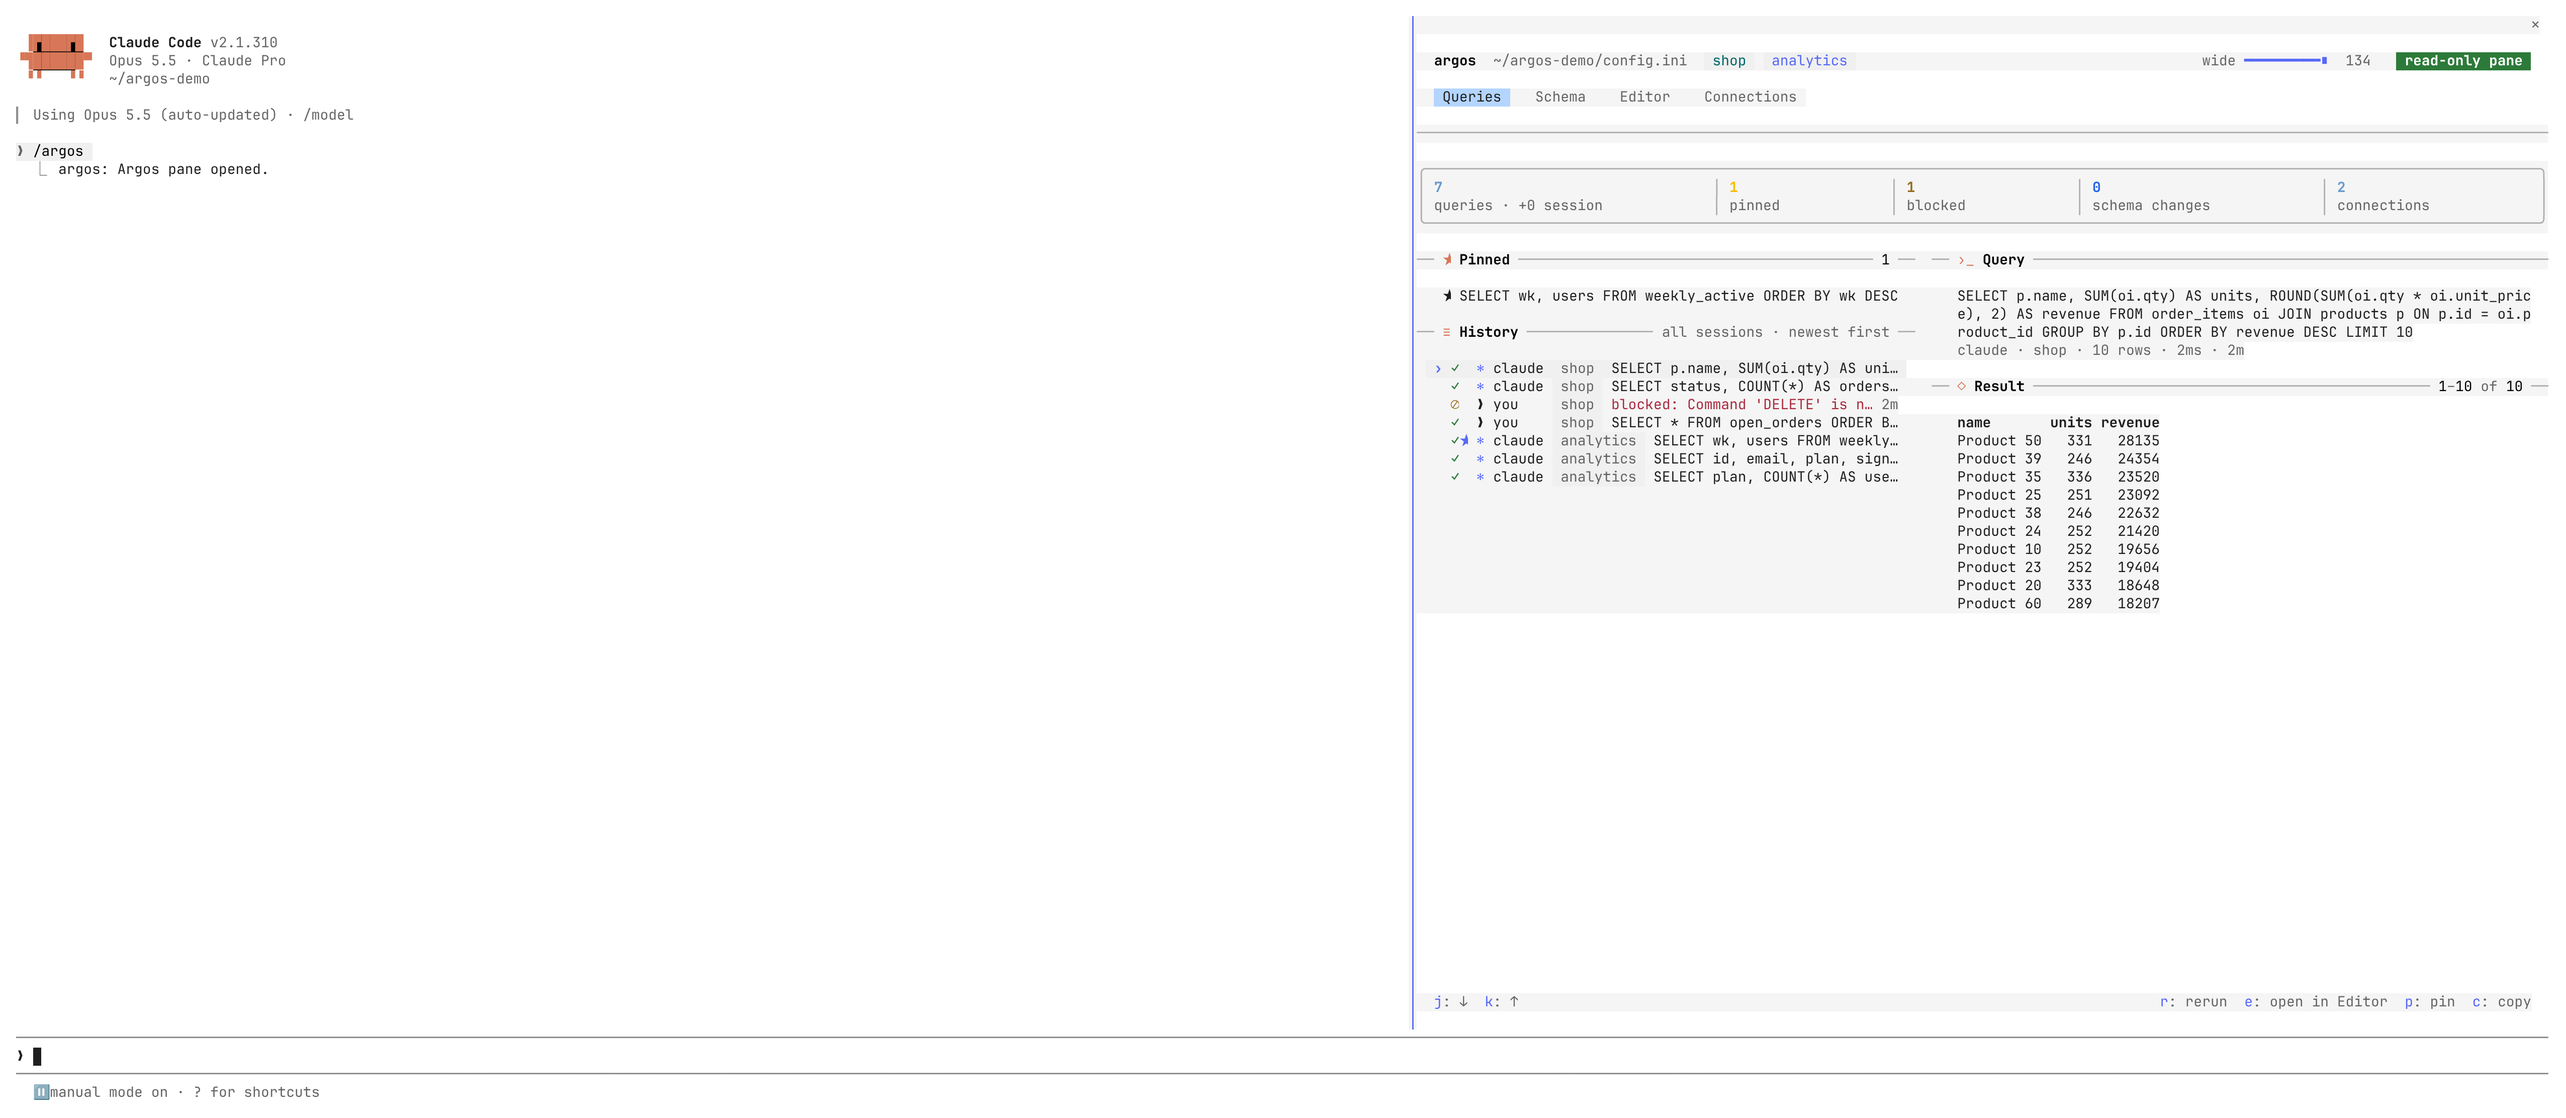
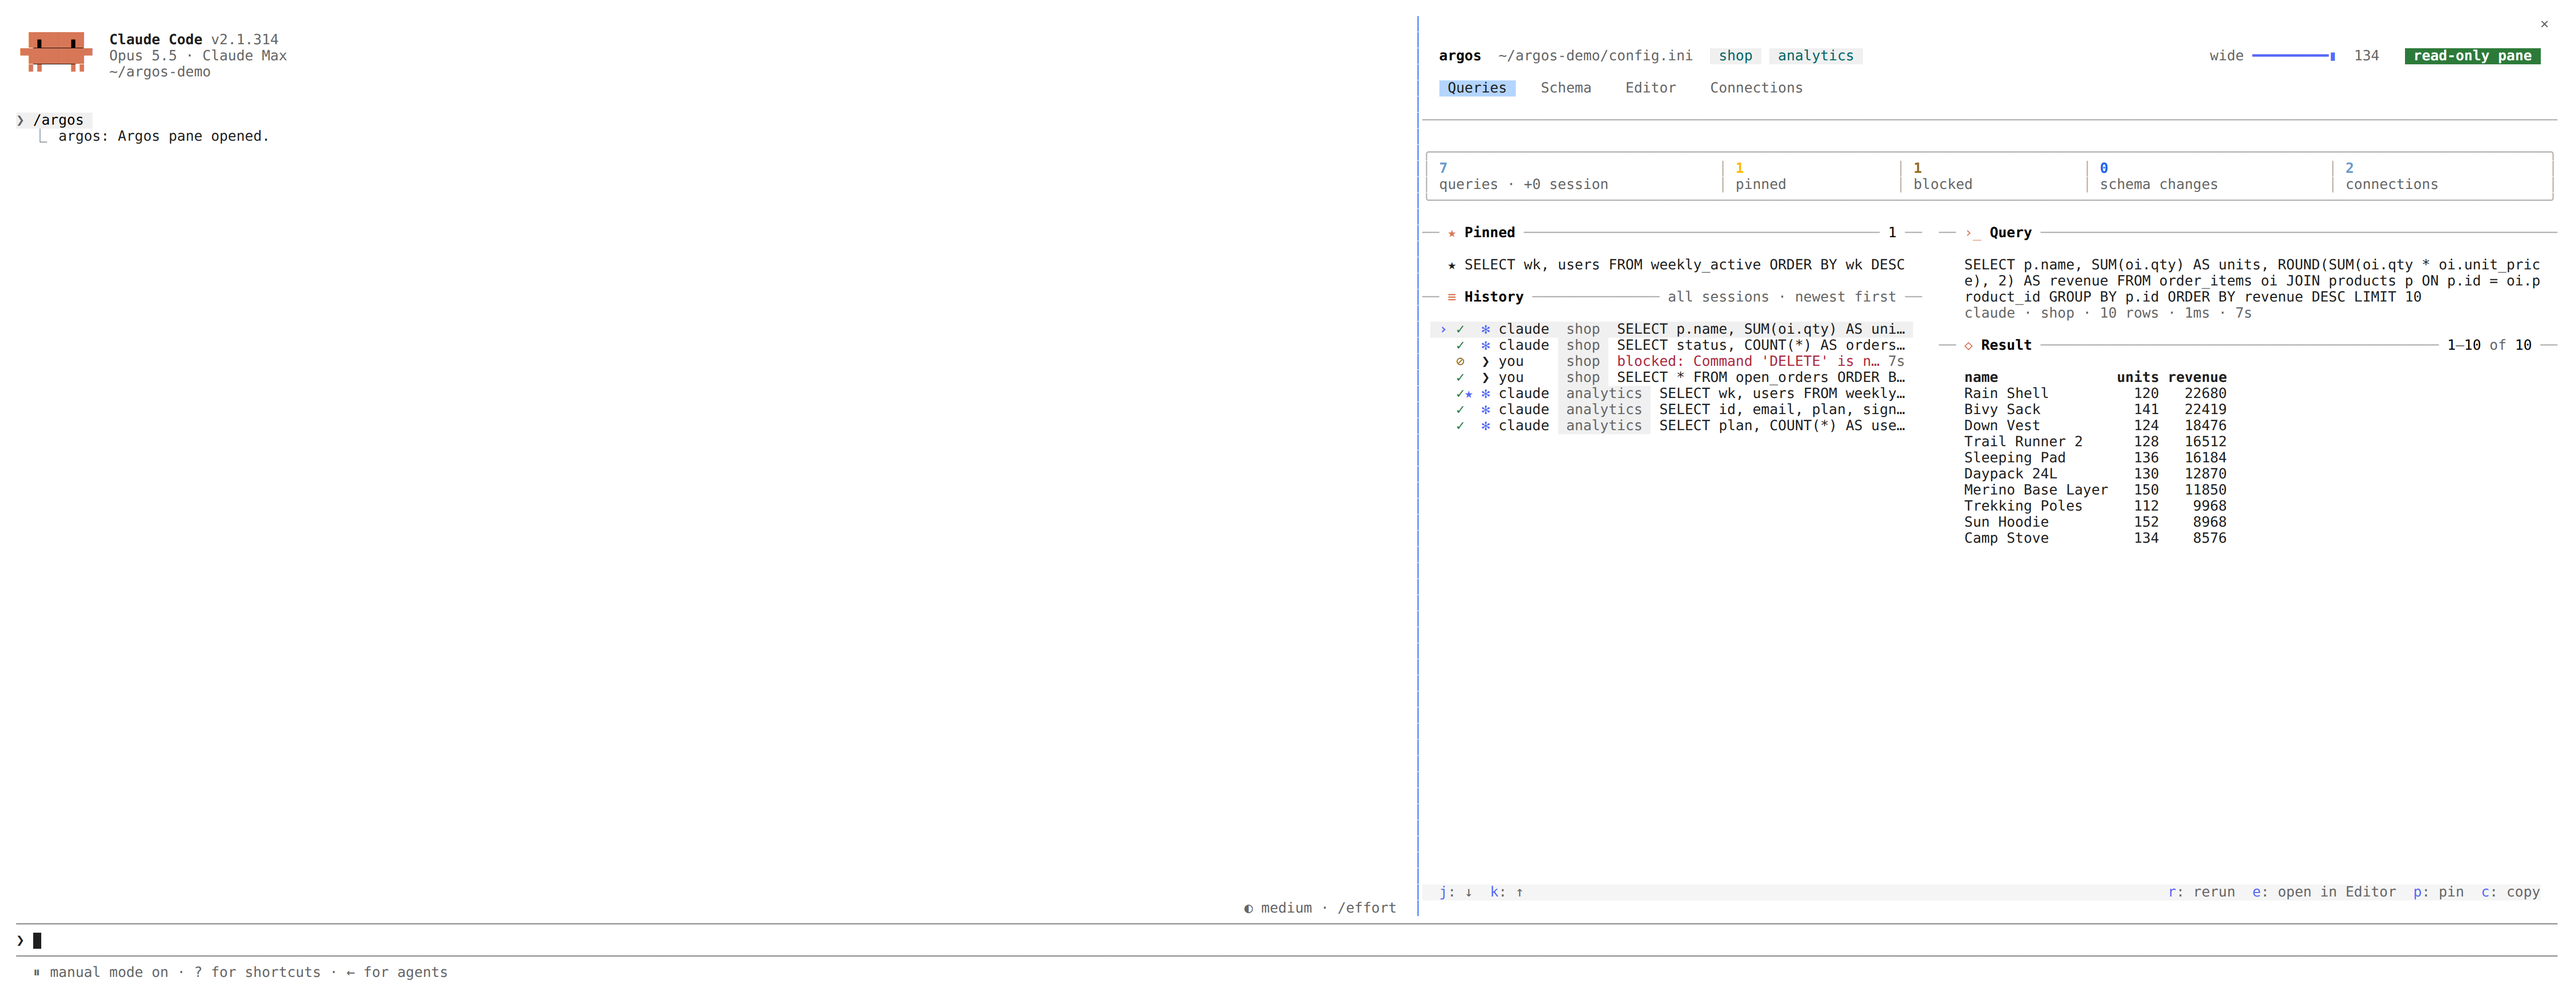
docs: retake the pane captures on the transparent background (#64)
The README and docs captures are shot again from a fresh demo
(~/argos-demo, two SQLite databases), so they show the pane on the
terminal's own background and the new role line on the Connections tab.

The capture also writes the theme to the session's settings.json:
Claude Code 2.1.314 ignored it in .claude.json and drew the light shots
dark.

diff --git a/docs/claude-code/pane.md b/docs/claude-code/pane.md
@@ -120,7 +120,7 @@ footer says `tab: leave field`, and Tab moves out so the hotkeys work again.
 
 ### Connections
 
-![The Connections tab: counts across the top and a card each for shop (SQLite, full access) and analytics (PostgreSQL, select-only)](../images/claude-code/connections.png)
+![The Connections tab: counts across the top and a card each for shop (SQLite, full access) and analytics (SQLite, select-only, its role read-only)](../images/claude-code/connections.png)
 
 One card per database from `config.ini`: type, host, whether it uses an SSH
 tunnel or SSL, whether it is SELECT-only, what its database role may do, and how
